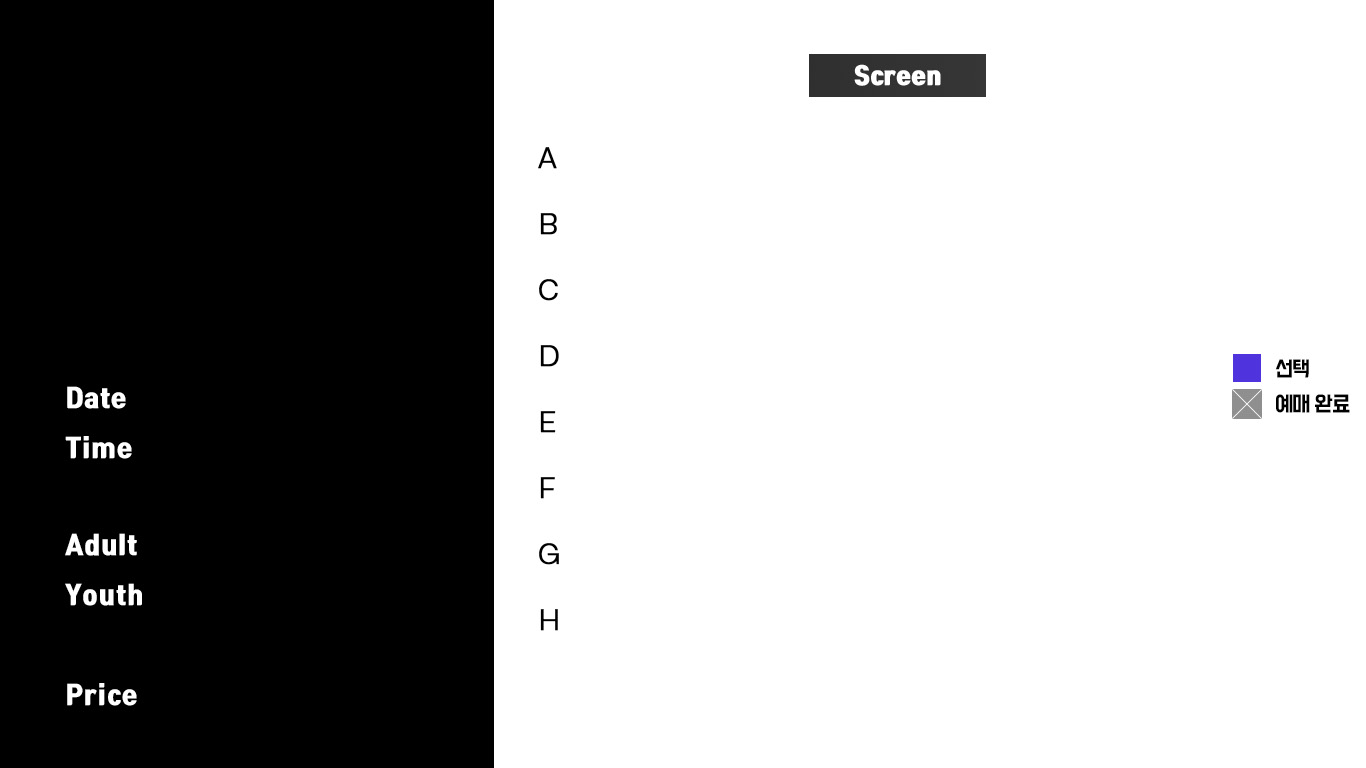
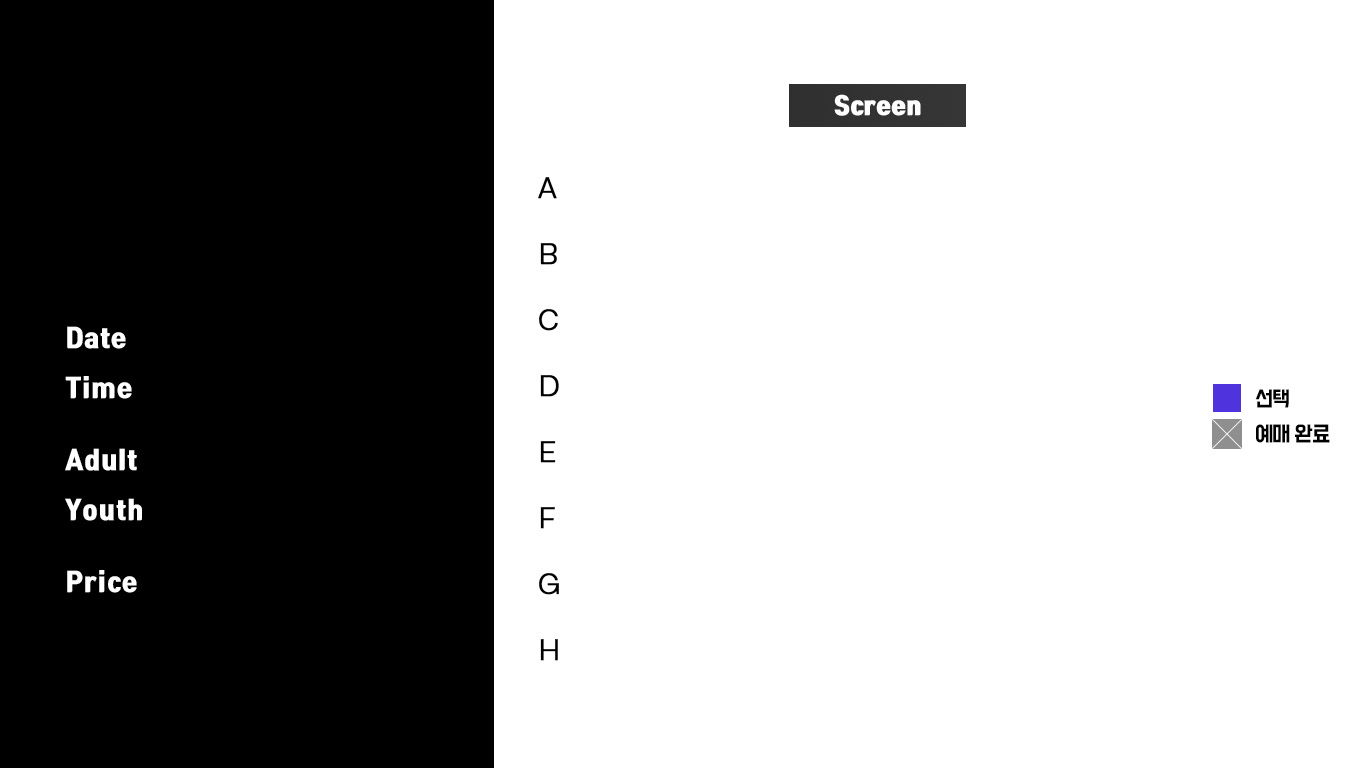
디자인 디테일 수정

diff --git a/GUI/src/seatFrame.java b/GUI/src/seatFrame.java
@@ -58,7 +58,7 @@ public class seatFrame extends javax.swing.JFrame {
 
 
                 if (this.reservedSeat.contains(seatNum) == true) {
-                    jb[i][j].setIcon(new ImageIcon("./image/choosebutton2.jpg"));
+                    jb[i][j].setIcon(new ImageIcon("./image/choosebutton2.png"));
                 } else {
 
                     jb[i][j].addMouseListener(new MouseAdapter() {
@@ -122,7 +122,7 @@ public class seatFrame extends javax.swing.JFrame {
         contentPane = new JPanel() {
             public void paintComponent(Graphics g) {
                 g.drawImage(icon.getImage(), 0, 0, null);
-                g.drawImage(my.getsmallIcon().getImage(),170,30,null);
+                g.drawImage(my.getsmallIcon().getImage(),160,45,null);
                 //my.getIcon().paintIcon(this, g, 133, 30);
                 setOpaque(false); //그림을 표시하게 설정,투명하게 조절
                 super.paintComponent(g);
@@ -138,7 +138,7 @@ public class seatFrame extends javax.swing.JFrame {
         backButton.setFocusPainted(false);
         backButton.setBackground(Color.WHITE);
         contentPane.add(backButton);
-        backButton.addActionListener(new ActionListener() { // mainFrame으로 이
+        backButton.addActionListener(new ActionListener() { // mainFrame으로 이동 
 			public void actionPerformed(ActionEvent e) {
 				reserveFrame m = new reserveFrame(my);
 				m.setVisible(true);
@@ -152,11 +152,11 @@ public class seatFrame extends javax.swing.JFrame {
         JLabel adultC = new JLabel(adultCount+"");
         JLabel youthC = new JLabel(youthCount+"");
         JLabel price = new JLabel(adultCount*13000+youthCount*10000+"");
-        dateLabel.setBounds(160,265,200,100);
-        timeLabel.setBounds(160,316,200,100);
-        adultC.setBounds(160,412,200,100);
-        youthC.setBounds(160,461,200,100);
-        price.setBounds(160,563,200,100);
+        dateLabel.setBounds(160,285,200,100);
+        timeLabel.setBounds(160,335,200,100);
+        adultC.setBounds(160,410,200,100);
+        youthC.setBounds(160,460,200,100);
+        price.setBounds(160,533,200,100);
 
         dateLabel.setForeground(Color.white);
         dateLabel.setFont(dateLabel.getFont().deriveFont(27.0F));
@@ -190,7 +190,7 @@ public class seatFrame extends javax.swing.JFrame {
                 }
             }
         });
-        reserveBtn.setBounds(85, 650, 310, 60);
+        reserveBtn.setBounds(85, 640, 310, 60);
         contentPane.add(reserveBtn);
         setDefaultCloseOperation(javax.swing.WindowConstants.EXIT_ON_CLOSE);
         setCursor(new java.awt.Cursor(java.awt.Cursor.DEFAULT_CURSOR));

diff --git a/GUI/src/reserveFrame.java b/GUI/src/reserveFrame.java
@@ -121,7 +121,7 @@ public class reserveFrame extends javax.swing.JFrame {
                     for (int i = 0; i < 10; i++) {
                         adult_btn_list[i].setIcon(new ImageIcon(""));
                     }
-                    adult_btn_list[Integer.parseInt(button.getText())].setIcon(new ImageIcon("./image/selectedButton.jpg"));
+                    adult_btn_list[Integer.parseInt(button.getText())].setIcon(new ImageIcon("./image/selectedButton.png"));
                     adultCount = Integer.parseInt(button.getText());
                     //price.setText(adultCount * 13000 + youthCount * 10000 + " Won");
                     price.setText(String.format("13,000 X %d + 10,000 X %d", adultCount,youthCount));
@@ -146,7 +146,7 @@ public class reserveFrame extends javax.swing.JFrame {
                     for (int i = 0; i < 10; i++) {
                         youth_btn_list[i].setIcon(new ImageIcon(""));
                     }
-                    youth_btn_list[Integer.parseInt(button.getText())].setIcon(new ImageIcon("./image/selectedButton.jpg"));
+                    youth_btn_list[Integer.parseInt(button.getText())].setIcon(new ImageIcon("./image/selectedButton.png"));
                     youthCount = Integer.parseInt(button.getText());
                     price.setText(String.format("13,000 X %d + 10,000 X %d", adultCount,youthCount));
                     price2.setText(String.format("= ￦%s", formats.format(adultCount*13000+youthCount*10000)));
@@ -157,8 +157,8 @@ public class reserveFrame extends javax.swing.JFrame {
             contentPane.add(youth_btn_list[i]);
         }
 
-        youth_btn_list[0].setIcon(new ImageIcon("./image/selectedButton.jpg"));
-        adult_btn_list[0].setIcon(new ImageIcon("./image/selectedButton.jpg"));
+        youth_btn_list[0].setIcon(new ImageIcon("./image/selectedButton.png"));
+        adult_btn_list[0].setIcon(new ImageIcon("./image/selectedButton.png"));
 
         JButton choiceButton = new JButton(reserve1); // choose you seat 버튼
         choiceButton.setRolloverIcon(reserve2);

diff --git a/GUI/src/mypageFrame.java b/GUI/src/mypageFrame.java
@@ -16,7 +16,7 @@ import javax.swing.JLabel;
 import javax.swing.JButton;
 
 public class mypageFrame {
-	private final Image BG_IMAGE = new ImageIcon("./image/bg_checkFrame(info).jpg").getImage();
+	private final Image BG_IMAGE = new ImageIcon("./image/bg_checkFrame2.jpg").getImage();
 	private JFrame frame;
 	private user my;
 
@@ -55,8 +55,8 @@ public class mypageFrame {
 		Map<String, ?> user = (Map) response.get(0);
 		String nick = (String) user.get("nick");
 		String id = (String) user.get("id");
-		this.drawText(bgPanel, nick, new int[] { 800, 240, 225, 60 });
-		this.drawText(bgPanel, id, new int[] { 800, 340, 225, 60 });
+		this.drawText(bgPanel, nick, new int[] { 800, 305, 225, 60 });
+		this.drawText(bgPanel, id, new int[] { 800, 405, 225, 60 });
 
 		frame.setLocationRelativeTo(null);
 		frame.setResizable(false);

diff --git a/GUI/src/reservationCancelFrame.java b/GUI/src/reservationCancelFrame.java
@@ -163,7 +163,7 @@ public class reservationCancelFrame {
 		String btnOff = "cancel1.jpg";
 		String btnOn = "cancel2.jpg";
 		JButton button = this.makeImageButton(btnOff, btnOn);
-		button.setBounds(765, 570, 225, 54);
+		button.setBounds(765, 555, 235, 54);
 		button.setBorderPainted(false);
 		button.setFocusPainted(false);
 
@@ -212,10 +212,10 @@ public class reservationCancelFrame {
 		// ImageIcon icon = new
 		poster = new JLabel();
 
-		title.setBounds(780, 200, 200, 50);
-		detail.setBounds(780, 250, 400, 50);
+		title.setBounds(780, 230, 500, 50);
+		detail.setBounds(780, 280, 400, 50);
 		count.setBounds(654, 416, 50, 50);
-		seats.setBounds(774, 438, 200, 50);
+		seats.setBounds(774, 430, 500, 50);
 		poster.setBounds(640, 195, 120, 160);
 
 		this.setFontWeight(title, TextAttribute.WEIGHT_SEMIBOLD);

diff --git a/GUI/src/mainFrame.java b/GUI/src/mainFrame.java
@@ -139,10 +139,10 @@ public class mainFrame {
 	 */
 	public List<Map<String, Object>> getMovies() {
 		DB db = new DB();
-		// String today = new SimpleDateFormat("yyyy-MM-dd").format(new Date());
+		String today = new SimpleDateFormat("yyyy-MM-dd").format(new Date());
 
 		List<Map<String, Object>> response = db
-				.query("select * from theater.movie order by openDate DESC limit 17;");
+				.query(String.format("select * from theater.movie where openDate <= '%s' order by openDate desc limit 17;", today));
 
 		return response;
 	}

diff --git a/GUI/src/user.java b/GUI/src/user.java
@@ -24,7 +24,7 @@ public class user {
 
     public ImageIcon getsmallIcon() {
         Image img = poster.getImage();
-        Image resizedImage = img.getScaledInstance(160, 240, java.awt.Image.SCALE_SMOOTH);
+        Image resizedImage = img.getScaledInstance(180, 252, java.awt.Image.SCALE_SMOOTH);
         return new ImageIcon(resizedImage);
     }
 

diff --git a/GUI/src/loginFrame.java b/GUI/src/loginFrame.java
@@ -61,8 +61,8 @@ public class loginFrame {
 	}
 
 	public loginFrame(boolean showLogo) {
-		initialize();
 		this.showLogo = showLogo;
+		initialize();
 		db = new DB();
 	}
 
